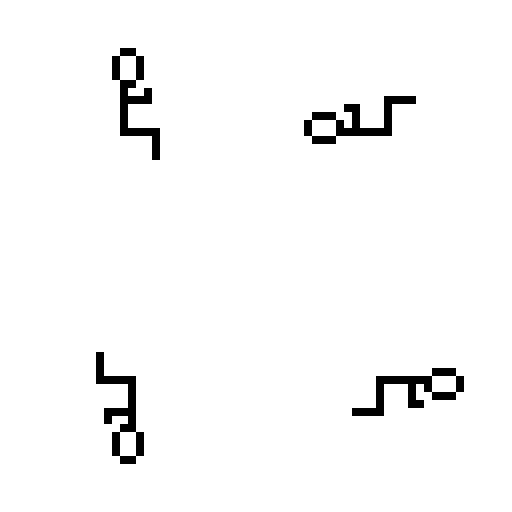
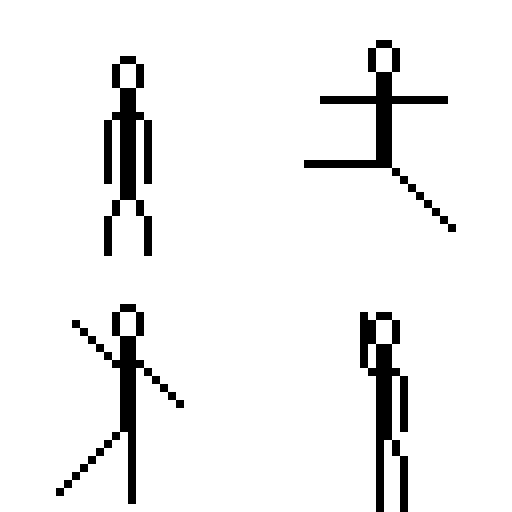
progressing with game
:)

diff --git a/app/scripts/Game.js b/app/scripts/Game.js
@@ -36,9 +36,15 @@ function preload() {
     this.load.spritesheet('flex', './flexingMan.png', { frameWidth: 256, frameHeight: 256 });
     this.load.spritesheet('jump', './jumpingMan.png', { frameWidth: 256, frameHeight: 256 });
     this.load.image('ground', '/floor.png');
+    this.load.image('background', '/background.png');
 }
 
 function create() {
+    //background
+    let backgroundImg = this.add.tileSprite(1280 / 2, 720/2, 1280, 720, 'background')
+
+    
+
     //  Frame debug view
     frameView = this.add.graphics();
 
@@ -74,7 +80,7 @@ function create() {
     this.anims.create({
         key: 'flex',
         frames: this.anims.generateFrameNumbers('flex'),
-        frameRate: 3,
+        frameRate: 4,
         repeat: -1
     });
 
@@ -82,7 +88,7 @@ function create() {
         key: 'jump',
         frames: this.anims.generateFrameNumbers('jump'),
         frameRate: 6,
-        
+        repeat: -1
     });
 
 
@@ -102,37 +108,36 @@ function update() {
     if (cursors.left.isDown) {
         player.setVelocityX(-160);
 
+        if (player.body.touching.down){
         player.anims.play('walkLeft', true);
+        }
     }
     else if (cursors.right.isDown) {
         player.setVelocityX(160);
 
+        if (player.body.touching.down) {
         player.anims.play('walkRight', true);
+        }
     }
     else {
         player.setVelocityX(0);
-        player.anims.play('flex', true)
+
+        if(!player.body.touching.down){
+            player.anims.play('jump', true);
+        }
+
+        if (player.body.touching.down) {
+            player.anims.play('flex', true)
+        }
     }
 
     if (cursors.up.isDown && player.body.touching.down) {
         player.setVelocityY(-330);
-        jumped = true;
+        player.anims.play('flex', true)
     }
 
     else if (!player.body.touching.down) {
-            if (cursors.left.isDown) {
-                player.setVelocityX(-160);
-
-                player.anims.play('walkLeft', true);
-                console.log("lol left")
-            }
-            else if (cursors.right.isDown) {
-                player.setVelocityX(160);
-
-                player.anims.play('jump', true);
-            }
-       
-        jumped = false;
+        player.anims.play('jump', true);
     }
 }
 

diff --git a/app/index.js b/app/index.js
@@ -51,11 +51,6 @@ app.get('/runningMan.json', function (req, res, next) {
     res.sendFile(path.resolve(__dirname, './assets/runningMan.json'));
 });
 
-app.get('/background.png', function (req, res, next) {
-    console.log("background.png delivered");
-    res.sendFile(path.resolve(__dirname, './assets/ProfilePic.JPG'));
-});
-
 app.get('/flexingMan.png', function (req, res, next) {
     console.log("flexingMan.png delivered");
     res.sendFile(path.resolve(__dirname, './assets/flexingMan.png'));
@@ -64,6 +59,11 @@ app.get('/flexingMan.png', function (req, res, next) {
 app.get('/jumpingMan.png', function (req, res, next) {
     console.log("jumpingMan.png delivered");
     res.sendFile(path.resolve(__dirname, './assets/jumpingMan.png'));
+});
+
+app.get('/background.png', function (req, res, next) {
+    console.log("background.png delivered");
+    res.sendFile(path.resolve(__dirname, './assets/background.png'));
 });
 
 app.get('/floor.png', function (req, res, next) {
